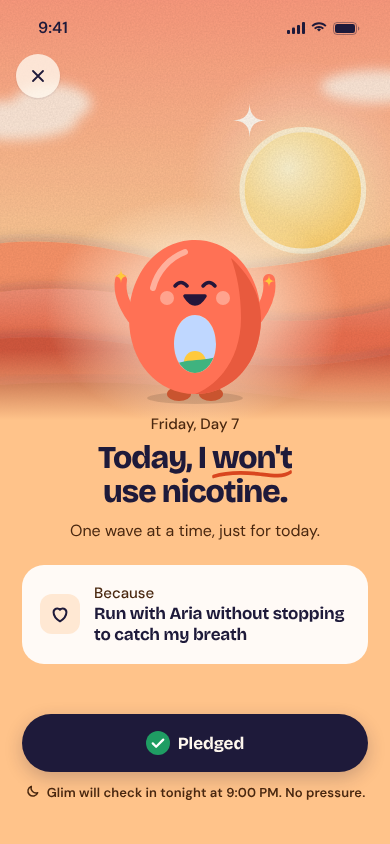
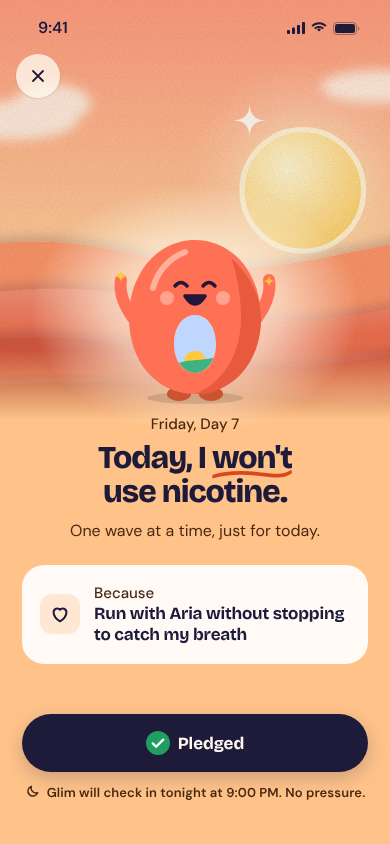
Cook: log round 7 Today-SOS-Program
Claude-Session: https://claude.ai/code/session_01DZ7ApmrncqosUtJWfkxY6v

Changed region(s): [[0.1846, 0.2773, 0.3692, 0.4621], [0.6154, 0.3081, 0.8, 0.4621]]

diff --git a/cook/site/screens/053-pledge.html b/cook/site/screens/053-pledge.html
@@ -10,7 +10,7 @@
   .scene .stars { position: absolute; left: 0; right: 0; top: 0; height: 120px; display: none; background-image: radial-gradient(1.6px 1.6px at 62px 96px, #FFF8EE 60%, transparent), radial-gradient(1.3px 1.3px at 148px 70px, #FFF8EE 60%, transparent), radial-gradient(1.5px 1.5px at 262px 92px, #FFF8EE 60%, transparent), radial-gradient(1.2px 1.2px at 318px 64px, #FFF8EE 60%, transparent), radial-gradient(1.4px 1.4px at 30px 104px, #FFF8EE 60%, transparent); opacity: .8; }
   [data-theme="dark"] .scene .fade { height: 130px; background: linear-gradient(to bottom, color-mix(in srgb, var(--g) 0%, transparent), var(--g) 82%); }
   /* light: a soft cream glow behind Xero lifts him off the deeper hills */
-  .glow { position: absolute; left: 50%; top: 196px; width: 300px; height: 230px; margin-left: -150px; border-radius: 50%; background: radial-gradient(closest-side, rgba(255,246,226,.85), rgba(255,246,226,.45) 55%, rgba(255,246,226,0)); pointer-events: none; }
+  .glow { position: absolute; left: 50%; top: 184px; width: 330px; height: 250px; margin-left: -165px; border-radius: 50%; background: radial-gradient(closest-side, rgba(255,247,230,.95), rgba(255,247,230,.62) 52%, rgba(255,247,230,0)); pointer-events: none; }
   [data-theme="dark"] .glow { display: none; }
   .nav .icon-btn.on-art { background: rgba(255,248,238,.78); color: var(--ink); box-shadow: 0 1px 2px rgba(30,26,58,.12); }
   [data-theme="dark"] .nav .icon-btn.on-art { background: rgba(255,248,238,.18); color: var(--cream); box-shadow: inset 0 0 0 1px rgba(255,248,238,.32); backdrop-filter: blur(6px); }
@@ -23,6 +23,7 @@
   .scene svg circle.sunmove.r70 { stroke: #FFF1C9; stroke-width: 6; filter: drop-shadow(0 0 16px rgba(255,214,130,.6)); }
   /* dark: the pre-dawn sun waits on the horizon and lifts 40px when you pledge */
   .scene svg circle.dawnsun { transition: transform 1.6s var(--settle); }
+  .scene svg circle.dawnsun.r80 { filter: blur(14px); } .scene svg circle.dawnsun.r44 { filter: blur(6px); }
   .up .scene svg circle.dawnsun { transform: translateY(-40px); }
   .xero { position: absolute; left: 50%; top: 206px; width: 200px; height: 200px; margin-left: -100px; }
   .nav { top: 50px; }
@@ -67,7 +68,7 @@
   const HILL = { '#FF9D6E': '#FA8A5B', '#FF7A55': '#EC6440', '#E85A3E': '#D04A2F', '#C2402A': '#A8361F' };
   if (!dark) svg.querySelectorAll('path').forEach(p => { const f = (p.getAttribute('fill') || '').toUpperCase(); if (HILL[f]) p.setAttribute('fill', HILL[f]); });
   /* dark: move the pre-dawn sun off Xero's shoulder to the right, sitting on the hills */
-  if (dark) svg.querySelectorAll('circle').forEach(c => { if (['80', '44', '24'].includes(c.getAttribute('r'))) { c.setAttribute('cx', '306'); c.setAttribute('cy', '286'); c.classList.add('dawnsun'); } });
+  if (dark) svg.querySelectorAll('circle').forEach(c => { if (['80', '44', '24'].includes(c.getAttribute('r'))) { c.setAttribute('cx', '306'); c.setAttribute('cy', '300'); c.classList.add('dawnsun', 'r' + c.getAttribute('r')); } });
   /* the scene's sparkle sits under the status bar: move it down beside the sun */
   svg.querySelectorAll('path').forEach(p => { if ((p.getAttribute('d') || '').startsWith('M330 34')) p.setAttribute('transform', 'translate(-91 40)'); });
   svg.querySelectorAll('circle').forEach(c => { const r = c.getAttribute('r'); if (r === '70' || r === '130') { c.classList.add('sunmove', 'r' + r); c.style.transformBox = 'fill-box'; c.style.transformOrigin = 'center'; } });

diff --git a/cook/ROUNDS.md b/cook/ROUNDS.md
@@ -128,3 +128,6 @@ session 023-032, lesson-log 033-042, slips-checkin 043-055.
   factual slips (box duration, weekday). Careful round 7 started on the r5 base.
 - Today-SOS-Program round 7 (016, 017, 022 redesigned): Sonnet 8.6 (r6 8.6); Opus pending. Main fault: cards sliced by the tab
   bar (015-017). Kit: inactive tab labels 72% ink.
+- Today-SOS-Program round 7: Opus 8.6 / Sonnet 8.6 (r6 8.4 / 8.6): kept. Kit after: Day Xero mark redrawn as a typographic
+  zero with the sunrise window (critics read the old round mark as an egg); day/prep badge sun moved clear of the numeral;
+  190px eased tab fade (no sliced cards; local short fades removed); SOS label on the tab label baseline.
